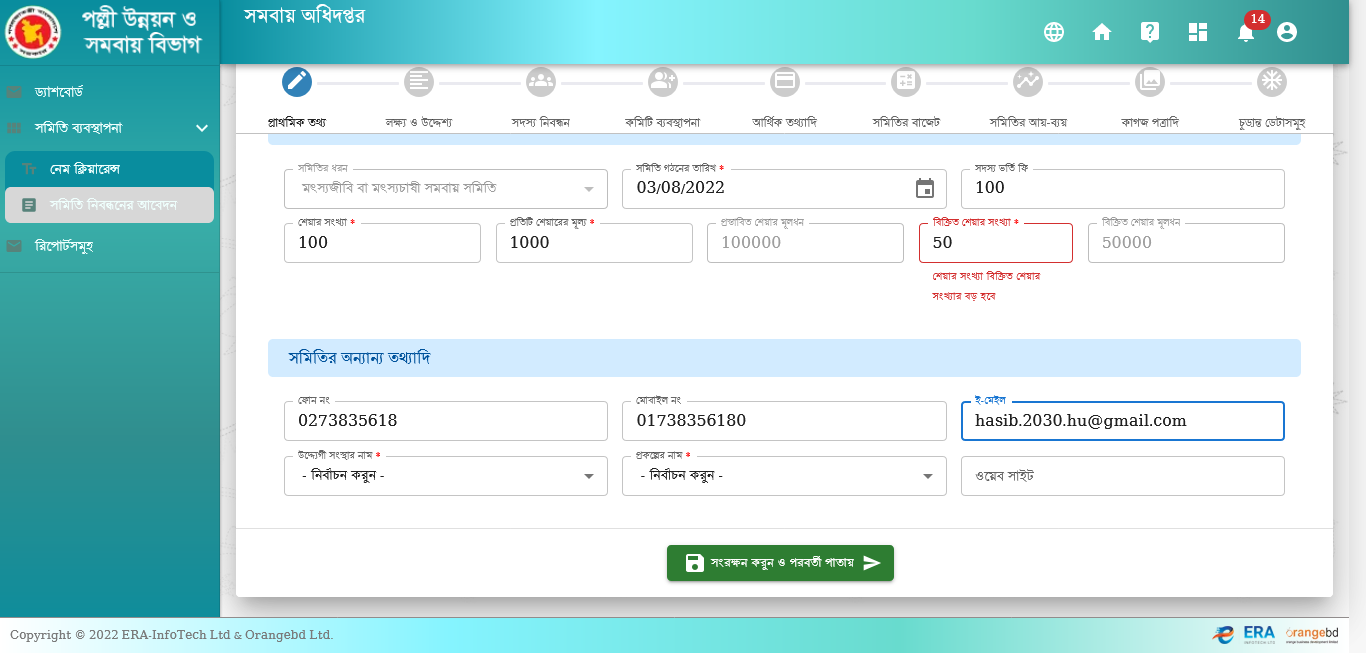
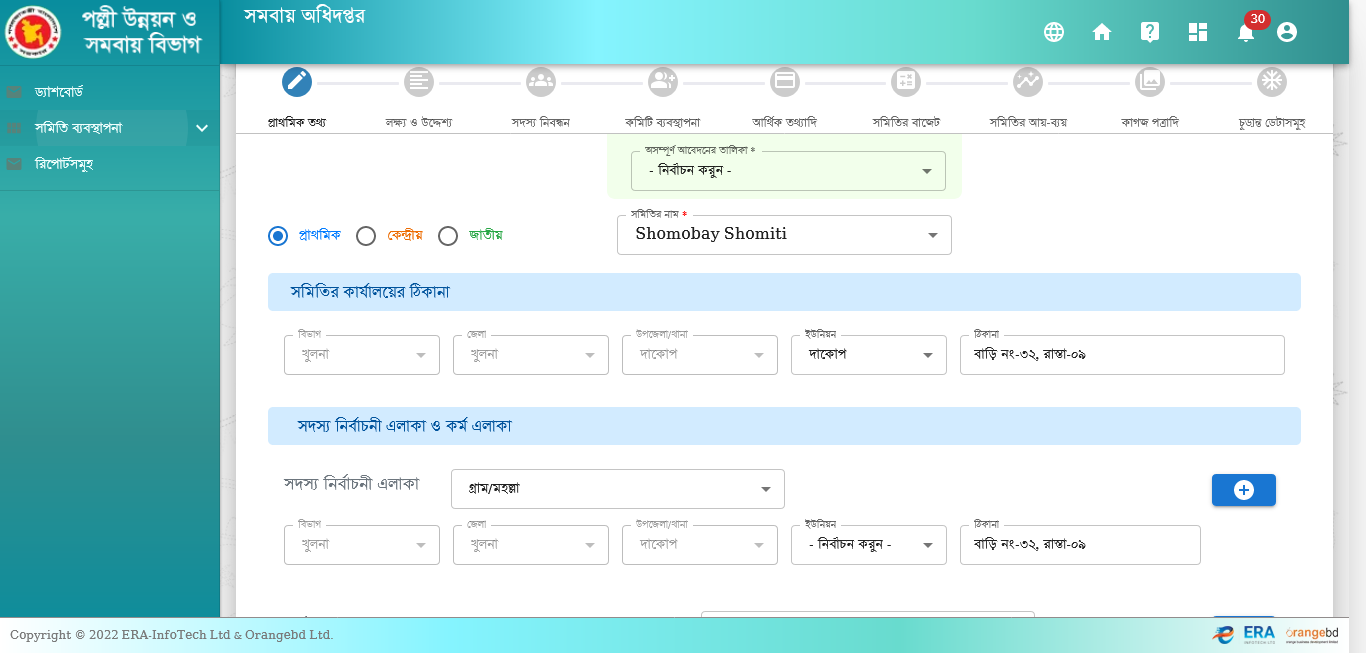
prathomik tottho module updated

diff --git a/test-output/emailable-report.html b/test-output/emailable-report.html
@@ -9,62 +9,11 @@
 <table>
 <tr><th>Test</th><th># Passed</th><th># Skipped</th><th># Retried</th><th># Failed</th><th>Time (ms)</th><th>Included Groups</th><th>Excluded Groups</th></tr>
 <tr><th colspan="8">All Test Suite</th></tr>
-<tr><td><a href="#t0">test</a></td><td class="num">3</td><td class="num">0</td><td class="num attn">1</td><td class="num">0</td><td class="num">34,994</td><td></td><td></td></tr>
+<tr><td><a href="#t0">test</a></td><td class="num">2</td><td class="num">0</td><td class="num">0</td><td class="num">0</td><td class="num">47,739</td><td></td><td></td></tr>
 </table>
-<table id='summary'><thead><tr><th>Class</th><th>Method</th><th>Start</th><th>Time (ms)</th></tr></thead><tbody><tr><th colspan="4">All Test Suite</th></tr></tbody><tbody id="t0"><tr><th colspan="4">test &#8212; retried</th></tr><tr class="retriedeven"><td rowspan="1">com.RDCD.All_RDCD</td><td><a href="#m0">NameClearance</a></td><td rowspan="1">1659587319459</td><td rowspan="1">17169</td></tr><tr><th colspan="4">test &#8212; passed</th></tr><tr class="passedeven"><td rowspan="3">com.RDCD.All_RDCD</td><td><a href="#m1">CancelNameClearance</a></td><td rowspan="1">1659587341513</td><td rowspan="1">2679</td></tr><tr class="passedeven"><td><a href="#m2">Login</a></td><td rowspan="1">1659587318407</td><td rowspan="1">1050</td></tr><tr class="passedeven"><td><a href="#m3">NameClearance</a></td><td rowspan="1">1659587338091</td><td rowspan="1">3421</td></tr></tbody>
+<table id='summary'><thead><tr><th>Class</th><th>Method</th><th>Start</th><th>Time (ms)</th></tr></thead><tbody><tr><th colspan="4">All Test Suite</th></tr></tbody><tbody id="t0"><tr><th colspan="4">test &#8212; passed</th></tr><tr class="passedeven"><td rowspan="2">com.RDCD.All_RDCD</td><td><a href="#m0">Login</a></td><td rowspan="1">1659614375867</td><td rowspan="1">871</td></tr><tr class="passedeven"><td><a href="#m1">PrathomikTottho</a></td><td rowspan="1">1659614376741</td><td rowspan="1">38754</td></tr></tbody>
 </table>
-<h2>test</h2><h3 id="m0">com.RDCD.All_RDCD#NameClearance</h3><table class="result"><tr><th>Exception</th></tr><tr><td><div class="stacktrace">org.openqa.selenium.ElementClickInterceptedException: Element &lt;button class=&quot;MuiButton-root MuiButton-contained MuiButton-containedPrimary MuiButton-sizeMedium MuiButton-containedSizeMedium MuiButtonBase-root Mui-disabled  css-1hw9j7s&quot; type=&quot;button&quot;&gt; is not clickable at point (784,384) because another element &lt;div class=&quot;MuiBox-root css-1tfqlfq&quot;&gt; obscures it
-Build info: version: &apos;4.0.0&apos;, revision: &apos;3a21814679&apos;
-System info: host: &apos;DESKTOP-7IO8K5N&apos;, ip: &apos;10.11.200.160&apos;, os.name: &apos;Windows 10&apos;, os.arch: &apos;amd64&apos;, os.version: &apos;10.0&apos;, java.version: &apos;1.8.0_171&apos;
-Driver info: org.openqa.selenium.firefox.FirefoxDriver
-Command: [19e20e31-fb87-41bc-87e2-bb041042ac15, clickElement {id=b340f766-4ff4-4012-aceb-b38c3b35e2ca}]
-Capabilities {acceptInsecureCerts: true, browserName: firefox, browserVersion: 103.0.1, javascriptEnabled: true, moz:accessibilityChecks: false, moz:buildID: 20220729222726, moz:debuggerAddress: localhost:50857, moz:geckodriverVersion: 0.31.0, moz:headless: false, moz:platformVersion: 10.0, moz:processID: 7644, moz:profile: C:\Users\tariq\AppData\Loca..., moz:shutdownTimeout: 60000, moz:useNonSpecCompliantPointerOrigin: false, moz:webdriverClick: true, moz:windowless: false, pageLoadStrategy: normal, platform: WINDOWS, platformName: WINDOWS, proxy: Proxy(), se:cdp: ws://localhost:50857/devtoo..., se:cdpVersion: 85, setWindowRect: true, strictFileInteractability: false, timeouts: {implicit: 0, pageLoad: 300000, script: 30000}, unhandledPromptBehavior: dismiss and notify}
-Element: [[FirefoxDriver: firefox on WINDOWS (19e20e31-fb87-41bc-87e2-bb041042ac15)] -&gt; css selector: .MuiButton-sizeMedium]
-Session ID: 19e20e31-fb87-41bc-87e2-bb041042ac15
-	at sun.reflect.NativeConstructorAccessorImpl.newInstance0(Native Method)
-	at sun.reflect.NativeConstructorAccessorImpl.newInstance(NativeConstructorAccessorImpl.java:62)
-	at sun.reflect.DelegatingConstructorAccessorImpl.newInstance(DelegatingConstructorAccessorImpl.java:45)
-	at java.lang.reflect.Constructor.newInstance(Constructor.java:423)
-	at org.openqa.selenium.remote.codec.w3c.W3CHttpResponseCodec.createException(W3CHttpResponseCodec.java:200)
-	at org.openqa.selenium.remote.codec.w3c.W3CHttpResponseCodec.decode(W3CHttpResponseCodec.java:133)
-	at org.openqa.selenium.remote.codec.w3c.W3CHttpResponseCodec.decode(W3CHttpResponseCodec.java:53)
-	at org.openqa.selenium.remote.HttpCommandExecutor.execute(HttpCommandExecutor.java:184)
-	at org.openqa.selenium.remote.service.DriverCommandExecutor.invokeExecute(DriverCommandExecutor.java:164)
-	at org.openqa.selenium.remote.service.DriverCommandExecutor.execute(DriverCommandExecutor.java:139)
-	at org.openqa.selenium.remote.RemoteWebDriver.execute(RemoteWebDriver.java:559)
-	at org.openqa.selenium.remote.RemoteWebElement.execute(RemoteWebElement.java:251)
-	at org.openqa.selenium.remote.RemoteWebElement.click(RemoteWebElement.java:77)
-	at com.RDCD.All_RDCD.NameClearance(All_RDCD.java:101)
-	at sun.reflect.NativeMethodAccessorImpl.invoke0(Native Method)
-	at sun.reflect.NativeMethodAccessorImpl.invoke(NativeMethodAccessorImpl.java:62)
-	at sun.reflect.DelegatingMethodAccessorImpl.invoke(DelegatingMethodAccessorImpl.java:43)
-	at java.lang.reflect.Method.invoke(Method.java:498)
-	at org.testng.internal.invokers.MethodInvocationHelper.invokeMethod(MethodInvocationHelper.java:135)
-	at org.testng.internal.invokers.TestInvoker.invokeMethod(TestInvoker.java:673)
-	at org.testng.internal.invokers.TestInvoker.invokeTestMethod(TestInvoker.java:220)
-	at org.testng.internal.invokers.MethodRunner.runInSequence(MethodRunner.java:50)
-	at org.testng.internal.invokers.TestInvoker$MethodInvocationAgent.invoke(TestInvoker.java:945)
-	at org.testng.internal.invokers.TestInvoker.invokeTestMethods(TestInvoker.java:193)
-	at org.testng.internal.invokers.TestMethodWorker.invokeTestMethods(TestMethodWorker.java:146)
-	at org.testng.internal.invokers.TestMethodWorker.run(TestMethodWorker.java:128)
-	at java.util.ArrayList.forEach(ArrayList.java:1257)
-	at org.testng.TestRunner.privateRun(TestRunner.java:808)
-	at org.testng.TestRunner.run(TestRunner.java:603)
-	at org.testng.SuiteRunner.runTest(SuiteRunner.java:429)
-	at org.testng.SuiteRunner.runSequentially(SuiteRunner.java:423)
-	at org.testng.SuiteRunner.privateRun(SuiteRunner.java:383)
-	at org.testng.SuiteRunner.run(SuiteRunner.java:326)
-	at org.testng.SuiteRunnerWorker.runSuite(SuiteRunnerWorker.java:52)
-	at org.testng.SuiteRunnerWorker.run(SuiteRunnerWorker.java:95)
-	at org.testng.TestNG.runSuitesSequentially(TestNG.java:1249)
-	at org.testng.TestNG.runSuitesLocally(TestNG.java:1169)
-	at org.testng.TestNG.runSuites(TestNG.java:1092)
-	at org.testng.TestNG.run(TestNG.java:1060)
-	at com.intellij.rt.testng.IDEARemoteTestNG.run(IDEARemoteTestNG.java:66)
-	at com.intellij.rt.testng.RemoteTestNGStarter.main(RemoteTestNGStarter.java:109)
-</div></td></tr></table><p class="totop"><a href="#summary">back to summary</a></p>
-<h3 id="m1">com.RDCD.All_RDCD#CancelNameClearance</h3><table class="result"><tr><th class="invisible"/></tr></table><p class="totop"><a href="#summary">back to summary</a></p>
-<h3 id="m2">com.RDCD.All_RDCD#Login</h3><table class="result"><tr><th class="invisible"/></tr></table><p class="totop"><a href="#summary">back to summary</a></p>
-<h3 id="m3">com.RDCD.All_RDCD#NameClearance</h3><table class="result"><tr><th class="invisible"/></tr></table><p class="totop"><a href="#summary">back to summary</a></p>
+<h2>test</h2><h3 id="m0">com.RDCD.All_RDCD#Login</h3><table class="result"><tr><th class="invisible"/></tr></table><p class="totop"><a href="#summary">back to summary</a></p>
+<h3 id="m1">com.RDCD.All_RDCD#PrathomikTottho</h3><table class="result"><tr><th class="invisible"/></tr></table><p class="totop"><a href="#summary">back to summary</a></p>
 </body>
 </html>

diff --git a/src/test/java/com/RDCD/All_RDCD.java b/src/test/java/com/RDCD/All_RDCD.java
@@ -51,7 +51,7 @@ public class All_RDCD extends BaseClass {
         driver.manage().timeouts().implicitlyWait(Duration.ofSeconds(10));
     }
 
-    @Test(description = "This is for name clearance scenario", priority =2, enabled = true)
+    @Test(description = "This is for name clearance scenario", priority =2, enabled = false)
     public static void NameClearance() throws InterruptedException {
 
         Menu_NameClearance();
@@ -101,7 +101,7 @@ public class All_RDCD extends BaseClass {
         driver.findElement(By.cssSelector(".MuiButton-sizeMedium")).click();
     }
 
-    @Test(description = "This is for name cancelling name clearance scenario", enabled = true, priority = 3)
+    @Test(description = "This is for name cancelling name clearance scenario", enabled = false, priority = 3)
     public static void CancelNameClearance() throws InterruptedException {
         WebDriverWait wait = new WebDriverWait(driver, Duration.ofSeconds(20));
 
@@ -134,21 +134,11 @@ public class All_RDCD extends BaseClass {
         }
     }
 
-    @Test(description = "This is for shomiti create(Prathomik Tottho) scenario", priority =3, enabled = false)
+    @Test(description = "This is for shomiti create(Prathomik Tottho) scenario", priority =4, enabled = true)
     public static void PrathomikTottho() throws InterruptedException {
-        WebDriverWait wait = new WebDriverWait(driver, Duration.ofSeconds(20));
+        Menu_ShomitiCreate();
 
-        wait.until(ExpectedConditions.elementToBeClickable(By.cssSelector(".MuiButton-containedPrimary")));
-        driver.findElement(By.cssSelector(".MuiPaper-root:nth-child(1) .MuiListItemButton-root:nth-child(3) .MuiTypography-root")).click();
-        driver.findElement(By.cssSelector(".MuiPaper-root:nth-child(1) .MuiCollapse-root .MuiButtonBase-root:nth-child(2) .MuiTypography-root")).click();
-
-        /*String strUrl = driver.getCurrentUrl();
-        if(strUrl.contains("registration")){
-            System.out.println("Test Passed");
-        }
-        else{
-            Assert.fail();
-        }*/
+        Incomplete_Apply();
 
         /*//Abedon Type (Incomplete)
         List<WebElement> type = driver.findElements(By.name("samityLevel"));
@@ -168,68 +158,71 @@ public class All_RDCD extends BaseClass {
             }
         }
 
-        //Shomiti Name
-        WebElement shomitiname = driver.findElement(By.name("samityName"));
+        SmallWait();
+
+        WebElement shomitiname = driver.findElement(By.name("samityName")); //Shomiti Name
         Select select1 = new Select(shomitiname);
         select1.selectByVisibleText("Shomobay Shomiti");
 
-        //SmallWait();
-        //Union
-        WebElement union = driver.findElement(By.name("samityUniThanaPawIdType"));
+        SmallWait();
+
+        WebElement union = driver.findElement(By.name("samityUniThanaPawIdType")); //Union
         Select select2 = new Select(union);
         select2.selectByVisibleText("দাকোপ");
 
-        //House no
-        driver.findElement(By.name("samityDetailsAddress")).sendKeys("বাড়ি নং-৩২, রাস্তা-০৯");
-        driver.findElement(By.name("detailsAddress")).sendKeys("বাড়ি নং-৩২, রাস্তা-০৯");
-
-        //Work Place
-        driver.findElement(By.xpath("//*[@class='PrivateSwitchBase-input css-1m9pwf3' and @type='checkbox']")).click();
-
-        //Shomiti Totthadi - Create date
-        driver.findElement(By.xpath("//*[@type='tel']")).sendKeys("03012020");
-
-        //Admission fee
-        driver.findElement(By.name("memberAdmissionFee")).sendKeys("100");
-
-        //No of Share
-        driver.findElement(By.name("noOfShare")).sendKeys("100");
-
-        //Share Price
-        driver.findElement(By.name("sharePrice")).sendKeys("1000");
-
-        //Sold Share
-        driver.findElement(By.name("soldShare")).sendKeys("50");
-
-        //Shomiti Onnann Totthadi - Phone
-        driver.findElement(By.name("phoneNo")).sendKeys("0273835618");
-
-        //Mobile
-        driver.findElement(By.name("mobileNo")).sendKeys("01738356180");
-
-        //Email
-        driver.findElement(By.name("emailId")).sendKeys("hasib.2030.hu@gmail.com");
-
         SmallWait();
 
-        //Enterpriceid
-        WebElement enterpriceid = driver.findElement(By.name("enterprisingId"));
+        driver.findElement(By.name("samityDetailsAddress")).sendKeys("বাড়ি নং-৩২, রাস্তা-০৯"); //House no
+        driver.findElement(By.name("detailsAddress")).sendKeys("বাড়ি নং-৩২, রাস্তা-০৯"); //House no
+
+        SmallWait();
+        driver.findElement(By.xpath("//*[@class='PrivateSwitchBase-input css-1m9pwf3' and @type='checkbox']")).click(); //Work Place
+
+        SmallWait();
+        WebElement date = driver.findElement(By.xpath("//*[@type='tel']")); //Shomiti Totthadi - Create date
+        date.clear();
+        date.sendKeys("03012020");
+
+        SmallWait();
+        driver.findElement(By.name("memberAdmissionFee")).sendKeys("100"); //Admission fee
+
+        SmallWait();
+        driver.findElement(By.name("noOfShare")).sendKeys("100"); //No of Share
+
+        SmallWait();
+        driver.findElement(By.name("sharePrice")).sendKeys("500"); //Share Price
+
+        SmallWait();
+        driver.findElement(By.name("soldShare")).sendKeys("10"); //Sold Share
+
+        SmallWait();
+        driver.findElement(By.name("phoneNo")).sendKeys("0273835618"); //Shomiti Onnann Totthadi - Phone
+
+        SmallWait();
+        driver.findElement(By.name("mobileNo")).sendKeys("01738356180"); //Mobile
+
+        SmallWait();
+        driver.findElement(By.name("emailId")).sendKeys("hasib.2030.hu@gmail.com"); //Email
+
+        //SmallWait();
+
+        WebElement enterpriceid = driver.findElement(By.name("enterprisingId")); //Enterpriceid
         Select select3 = new Select(enterpriceid);
         select3.selectByValue("1");
 
-        //Projecteid
-        WebElement projectId = driver.findElement(By.name("projectId"));
+        /*SmallWait();
+
+        WebElement projectId = driver.findElement(By.id("mui-38")); //Projecteid
         Select select4 = new Select(projectId);
-        select4.selectByValue("3");
+        select4.selectByVisibleText("আদর্শ গ্রাম-২ প্রকল্প");*/
 
-        //Website
-        driver.findElement(By.name("website")).sendKeys("https://www.dddd.com");
+        SmallWait();
+        driver.findElement(By.name("website")).sendKeys("https://www.dddd.com"); //Website
 
-        //Button
-        driver.findElement(By.xpath("//*[@class='MuiButton-root MuiButton-contained MuiButton-containedSuccess MuiButton-sizeMedium MuiButton-containedSizeMedium MuiButtonBase-root  css-lq45lw' and @type='button']")).click();
+        /*driver.findElement(By.xpath("//*[@class='MuiButton-root MuiButton-contained MuiButton-containedSuccess MuiButton-sizeMedium MuiButton-containedSizeMedium MuiButtonBase-root  css-lq45lw' and @type='button']")).click(); //Button*/
     }
 
-    @Test(description = "This is for shomiti create(Lokkho o Uddessho) scenario", priority =4, enabled = false)
+    @Test(description = "This is for shomiti create(Lokkho o Uddessho) scenario", priority =5, enabled = false)
     public static void Lokkho_Uddessho(){
         WebDriverWait wait = new WebDriverWait(driver, Duration.ofSeconds(20));
 
@@ -253,7 +246,7 @@ public class All_RDCD extends BaseClass {
         driver.findElement(By.xpath("//*[@class='MuiButton-root MuiButton-contained MuiButton-containedSuccess MuiButton-sizeMedium MuiButton-containedSizeMedium MuiButtonBase-root  css-lq45lw' and @type='button']")).click();
     }
 
-    @Test(description = "This is for shomiti create(Sodossho nibondhon) scenario", priority =5, enabled = false)
+    @Test(description = "This is for shomiti create(Sodossho nibondhon) scenario", priority =6, enabled = false)
     public static void Sodossho_Nibondhon() throws InterruptedException, IOException {
         WebDriverWait wait = new WebDriverWait(driver, Duration.ofSeconds(5));
 

diff --git a/src/main/java/com/BaseClass/BaseClass.java b/src/main/java/com/BaseClass/BaseClass.java
@@ -8,6 +8,7 @@ import org.openqa.selenium.firefox.FirefoxDriver;
 import java.awt.*;
 import java.io.File;
 import java.io.IOException;
+import java.util.List;
 
 public class BaseClass {
     public static WebDriver driver;
@@ -41,5 +42,23 @@ public class BaseClass {
 
         driver.findElement(By.xpath("//span[text()='সমিতি ব্যবস্থাপনা']")).click();
         driver.findElement(By.xpath("//span[text()='নেম ক্লিয়ারেন্স']")).click();
+    }
+
+    public static void Menu_ShomitiCreate() throws InterruptedException {
+        SmallWait();
+
+        driver.findElement(By.xpath("//span[text()='সমিতি ব্যবস্থাপনা']")).click();
+        driver.findElement(By.xpath("//span[text()='সমিতি নিবন্ধনের আবেদন']")).click();
+    }
+
+    public static void Incomplete_Apply() throws InterruptedException {
+        SmallWait();
+        List<WebElement> type = driver.findElements(By.name("samityLevel"));
+        for(WebElement option : type){
+
+            if(option.getAttribute("value").equalsIgnoreCase("2")){
+                option.click();
+            }
+        }
     }
 }
